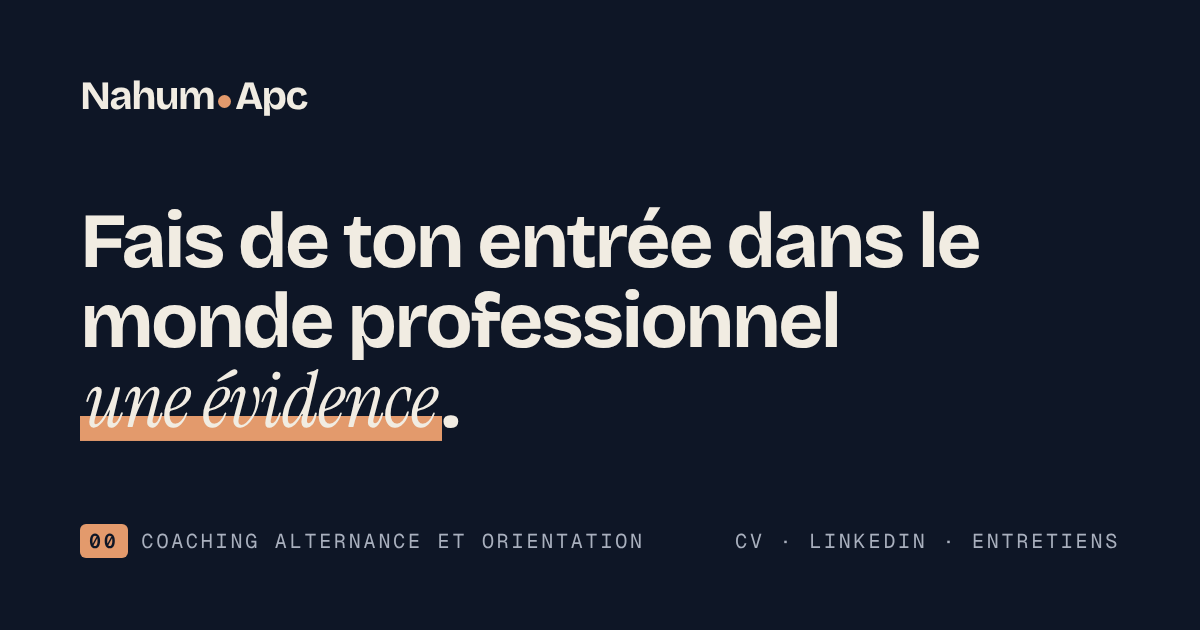
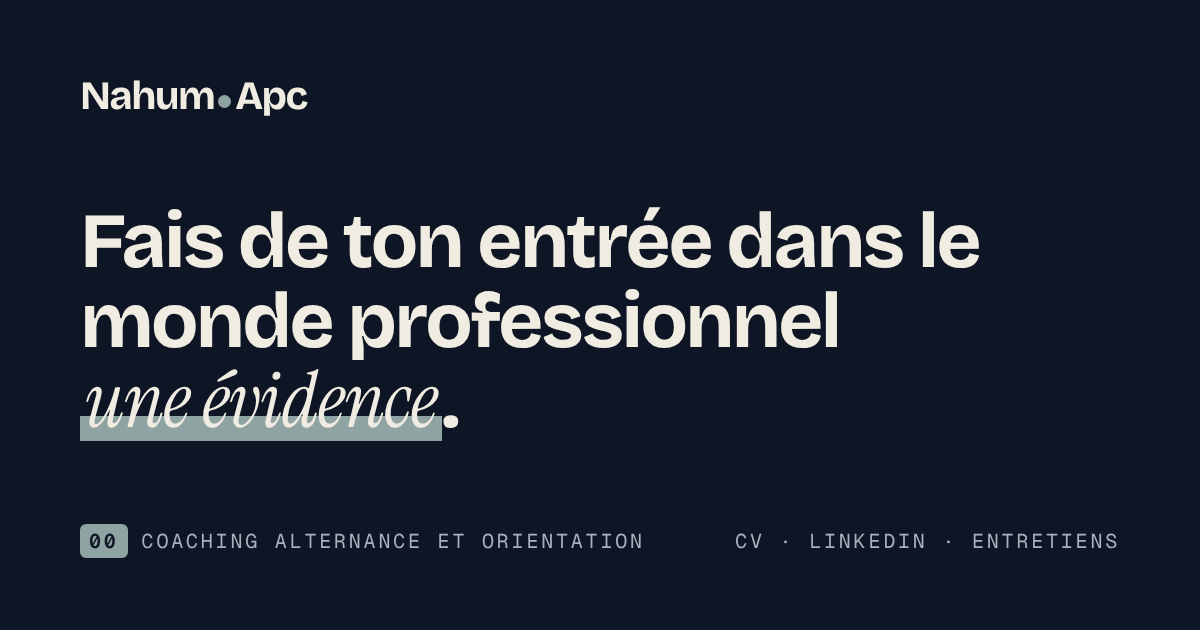
Charte : bleu nuit conservé, accent gris-vert ardoise à la place du cuivre ; photo dans « Qui suis-je ? »
Claude-Session: https://claude.ai/code/session_012UQLzaXUSkXrTi3Kbkctv1

Changed region(s): [[0.0617, 0.6635, 0.37, 0.7238], [0.0617, 0.8143, 0.1233, 0.9048], [0.185, 0.1508, 0.2158, 0.181]]

diff --git a/src/styles/global.css b/src/styles/global.css
@@ -9,23 +9,22 @@
 
 @theme {
   /* Couleurs (contrastes vérifiés selon WCAG AA)
-   * Identité tirée de la photo de profil : bleu de la veste, gris-vert
-   * ardoise du fond, avec une touche de cuivre (boutons, surligneur, badges). */
-  --color-fond: #e9eeed; /* gris-vert très pâle : fond principal */
-  --color-pale: #dbe3e2; /* fond des sections alternées */
-  --color-surface: #f7f9f9; /* fond des cartes */
-  --color-encre: #0e1626; /* bleu nuit : texte principal (15:1 sur le fond) */
-  --color-gris: #525c66; /* texte secondaire (5,8:1 sur le fond) */
-  --color-ligne: #cdd7d6; /* bordures */
-  --color-ardoise: #879597; /* gris-vert du fond de la photo : décor uniquement, jamais en fond de texte clair */
-  --color-primaire: #2a3550; /* bleu veste : aplats sombres (pastilles, bandeau) */
-  --color-accent: #e39a6c; /* cuivre : boutons principaux et surligneur, texte bleu nuit dessus (7,8:1) */
-  --color-accent-fonce: #96461f; /* cuivre foncé : icônes et liens sur fond clair (5,6:1) */
-  --color-accent-doux: #f6e4d6; /* fond des pastilles d'icônes */
-  --color-sombre: #2a3550; /* bleu veste : en-tête, hero, formule mise en avant */
-  --color-sombre-2: #222c44; /* cartes posées sur fond sombre */
-  --color-sombre-doux: #b8c2cf; /* texte secondaire sur fond sombre (6,8:1) */
-  --color-creme: #f3f5f4; /* texte principal sur fond sombre (11:1) */
+   * Identité : bleu nuit + crème, avec une touche de gris-vert ardoise
+   * (boutons, surligneur, badges), repris du fond de la photo de profil. */
+  --color-fond: #f4f1ea; /* crème : fond principal */
+  --color-pale: #ebe5d9; /* fond des sections alternées */
+  --color-surface: #fbf9f5; /* fond des cartes */
+  --color-encre: #0e1626; /* bleu nuit : texte principal (16:1 sur le fond) */
+  --color-gris: #5a5f6b; /* texte secondaire (5,7:1 sur le fond) */
+  --color-ligne: #e2dcd0; /* bordures */
+  --color-primaire: #0e1626; /* bleu nuit : aplats sombres (pastilles, bandeau) */
+  --color-accent: #8fa3a3; /* gris-vert : boutons principaux et surligneur, texte bleu nuit dessus (6,8:1) */
+  --color-accent-fonce: #4a5d5f; /* gris-vert foncé : icônes et liens sur fond clair (6,2:1) */
+  --color-accent-doux: #dfe7e6; /* fond des pastilles d'icônes */
+  --color-sombre: #0e1626; /* bleu nuit : formule mise en avant, e-book */
+  --color-sombre-2: #162036; /* cartes posées sur fond sombre */
+  --color-sombre-doux: #a9b0be; /* texte secondaire sur fond sombre (8,3:1) */
+  --color-creme: #f1ece2; /* texte principal sur fond sombre (15:1) */
 
   /* Polices (auto-hébergées, voir src/layouts/Base.astro) */
   --font-titre: 'Bricolage Grotesque Variable', ui-sans-serif, system-ui, sans-serif;
@@ -113,7 +112,7 @@
     box-decoration-break: clone;
     -webkit-box-decoration-break: clone;
   }
-  /* Sur fond sombre : même surligneur cuivre, sous un mot couleur crème */
+  /* Sur fond sombre : même surligneur gris-vert, sous un mot couleur crème */
   .fond-sombre h1 em,
   .fond-sombre h2 em,
   .fond-sombre h3 em {
@@ -131,9 +130,13 @@
 
   /* Focus clavier bien visible, uniquement à la navigation au clavier */
   :focus-visible {
-    outline: 3px solid var(--color-accent);
+    outline: 3px solid var(--color-accent-fonce);
     outline-offset: 3px;
     border-radius: 8px;
+  }
+  /* Sur fond sombre, le gris-vert clair reste bien visible */
+  .fond-sombre :focus-visible {
+    outline-color: var(--color-accent);
   }
 }
 

diff --git a/src/config/site.ts b/src/config/site.ts
@@ -45,8 +45,8 @@ export const site = {
     pitch:
       'Ce que j’ai appris en 5 ans d’alternance, je le partage pour que ton entrée dans le monde pro ne dépende pas de qui tu connais.',
     // Photo de profil facultative : dépose-la dans /public puis indique son chemin (ex. '/nahum.jpg').
-    photo: '',
-    // Ton parcours. Mets « actuel: true » sur l'étape à mettre en avant (point cuivre).
+    photo: '/nahum.webp',
+    // Ton parcours. Mets « actuel: true » sur l'étape à mettre en avant (point gris-vert).
     parcours: [
       {
         periode: '5 ans d’alternance',
